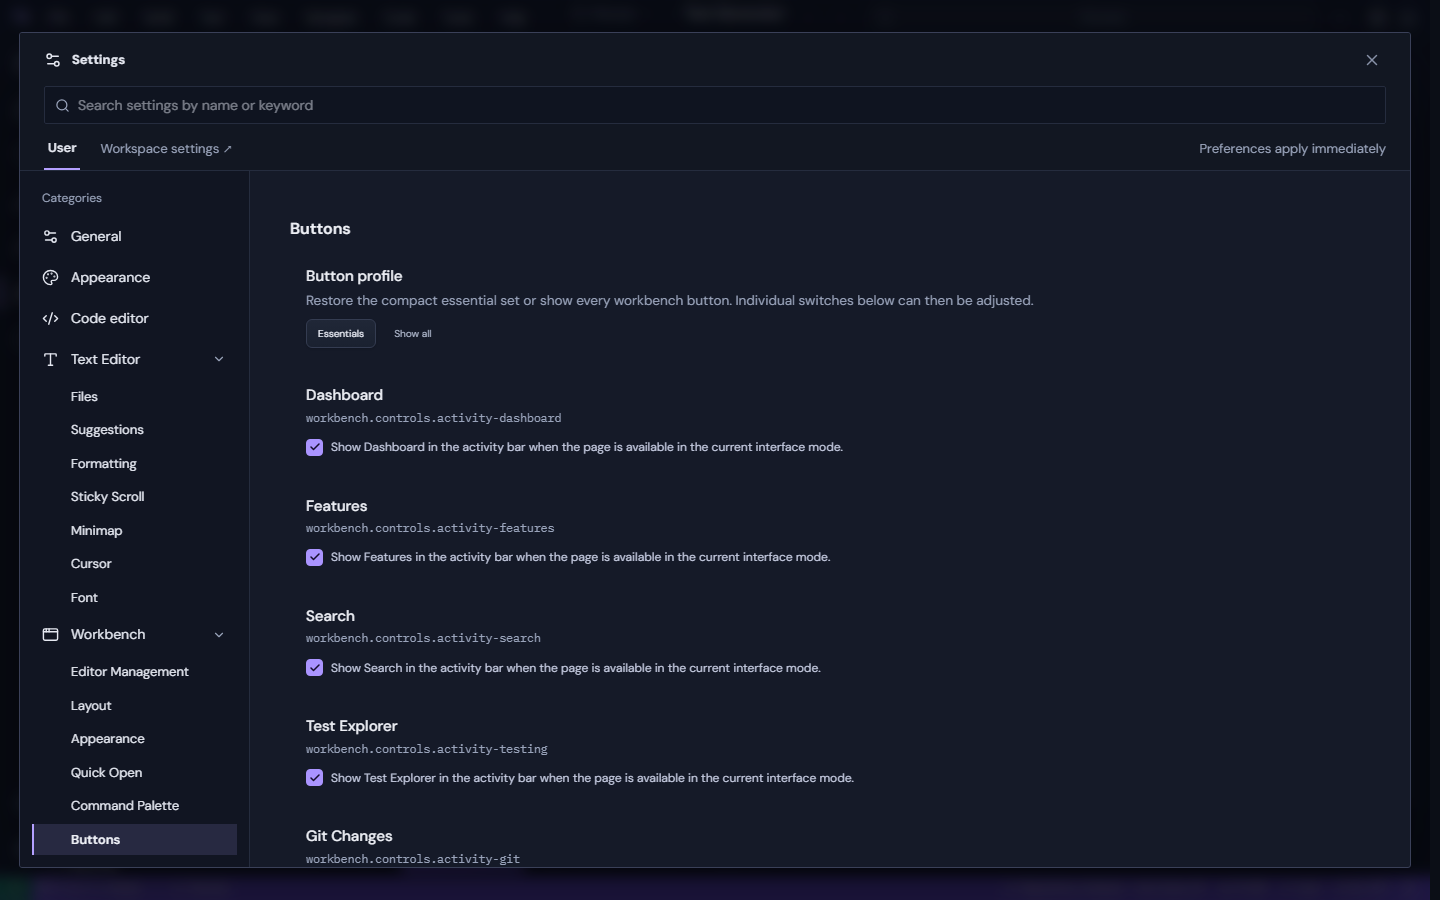
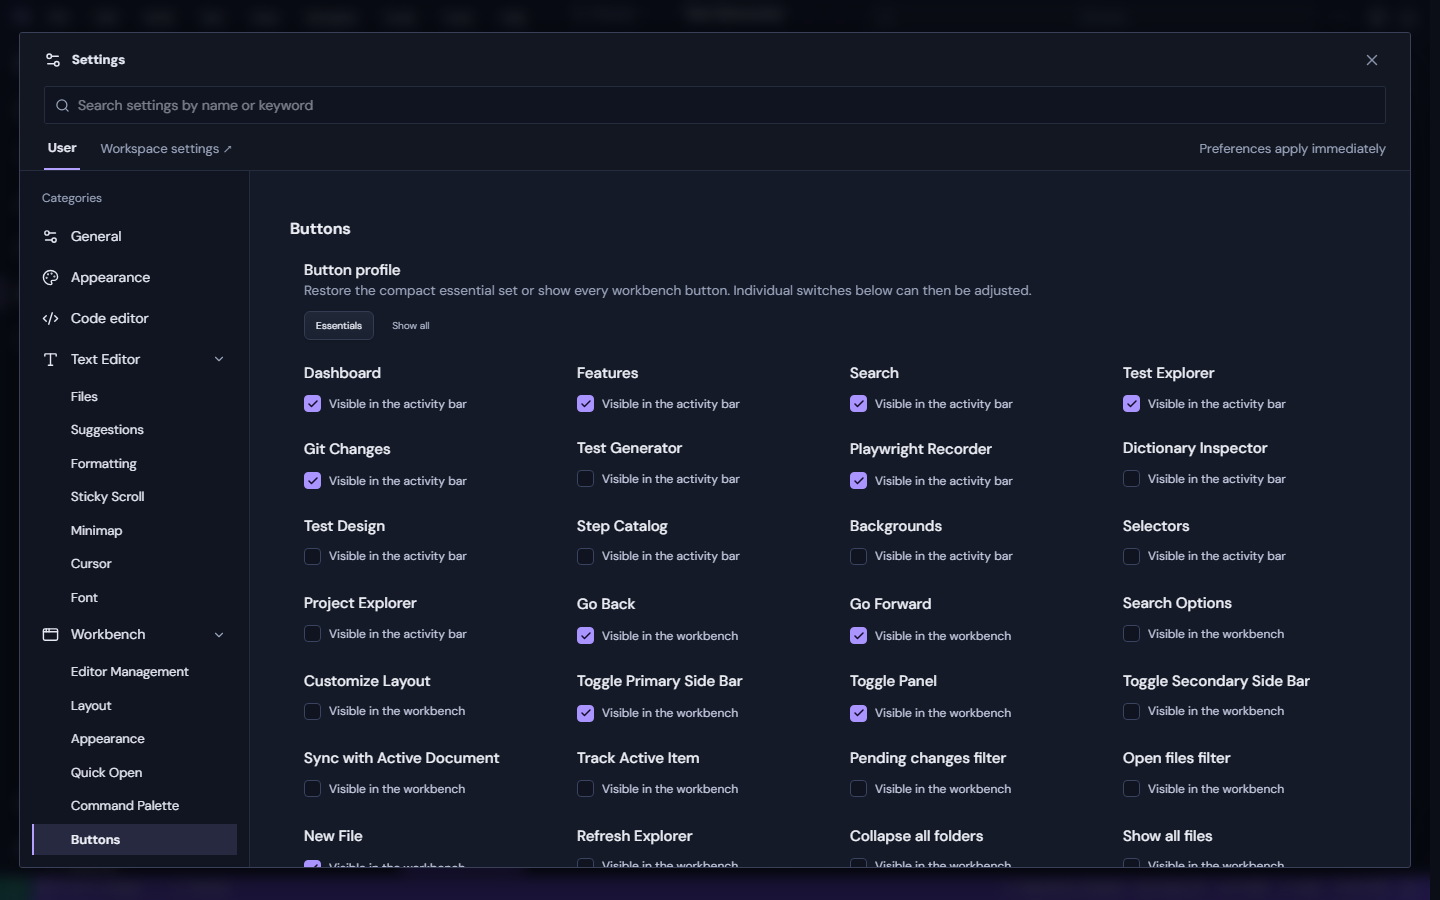
feat(web): make button settings easier to scan

diff --git a/test-authoring-studio/src/vscode/settingsRows.tsx b/test-authoring-studio/src/vscode/settingsRows.tsx
@@ -51,7 +51,7 @@ export function settingRows(): SettingRow[] {
       keywords: `${d.key} ${d.category} ${d.description} ${(d.options ?? []).map((o) => `${o.value} ${o.description ?? ''}`).join(' ')}${modified ? ' @modified modified' : ''}`,
       control: control(d),
       modified,
-      meta: <span className="setting-meta"><code>{d.key}</code>{modified && <button className="icon-button setting-reset" aria-label={`Reset ${d.title}`} title={`Reset to the default (${JSON.stringify(d.default)})`} onClick={() => resetSetting(d.key)}><RotateCcw size={12} aria-hidden="true" /></button>}</span>,
+      meta: modified ? <span className="setting-meta"><button className="icon-button setting-reset" aria-label={`Reset ${d.title}`} title={`Reset to the default (${JSON.stringify(d.default)})`} onClick={() => resetSetting(d.key)}><RotateCcw size={12} aria-hidden="true" /></button></span> : undefined,
     };
   });
 }

diff --git a/test-authoring-studio/src/StudioSettings.tsx b/test-authoring-studio/src/StudioSettings.tsx
@@ -348,7 +348,7 @@ export default function StudioSettings({ onNotice, onWorkspace, shortcuts, onClo
       </nav>
       <div className="settings-content" ref={contentRef}>
         {grouped.map(({ s, items }) => (
-          <section key={s.id} className="settings-section" aria-labelledby={`settings-${s.id.replace(/\W/g, '')}`}>
+          <section key={s.id} className={`settings-section ${s.id === 'Workbench ▸ Buttons' ? 'button-settings-section' : ''}`} aria-labelledby={`settings-${s.id.replace(/\W/g, '')}`}>
             <h2 id={`settings-${s.id.replace(/\W/g, '')}`} className={s.sub ? 'settings-subheading' : ''}>{s.label}</h2>
             {items.map((r) => (
               <div key={r.id} data-setting-id={r.id} className={`settings-row ${r.block && !r.control ? 'stacked' : ''} ${r.sub ? 'sub' : ''} ${r.modified ? 'modified' : ''}`}>

diff --git a/test-authoring-studio/tests/e2e/web-controls.spec.ts b/test-authoring-studio/tests/e2e/web-controls.spec.ts
@@ -17,6 +17,8 @@ test('web workbench starts with essential controls and restores optional buttons
   await expect(settings).toBeVisible();
   await settings.locator('#setting-general-showGuideMe').click();
   await settings.getByRole('navigation', { name: 'Settings categories' }).getByRole('button', { name: 'Buttons' }).click();
+  await expect(settings.getByText('workbench.controls.activity-dashboard')).toHaveCount(0);
+  await expect(settings.getByText('Visible in the activity bar').first()).toBeVisible();
   await settings.locator('#setting-workbench-controls-activity-design').click();
   await settings.locator('#setting-workbench-controls-explorer-refresh').click();
   await page.keyboard.press('Escape');

diff --git a/test-authoring-studio/src/vscode/uiControls.ts b/test-authoring-studio/src/vscode/uiControls.ts
@@ -88,7 +88,7 @@ const controls = [
 
 const getters = Object.fromEntries((isDesktop ? [] : controls).map(([id, title, essential]) => [id, defineSetting<boolean>({
   key: `workbench.controls.${id}`, category: 'Workbench ▸ Buttons', title, type: 'boolean', default: essential,
-  description: id.startsWith('activity-') ? `Show ${title} in the activity bar when the page is available in the current interface mode.` : `Show ${title} in the workbench.`,
+  description: id.startsWith('activity-') ? 'Visible in the activity bar' : 'Visible in the workbench',
 })])) as Record<string, () => boolean>;
 
 export const controlVisible = (id: string) => isDesktop || (getters[id]?.() ?? true);

diff --git a/test-authoring-studio/src/theme.scss b/test-authoring-studio/src/theme.scss
@@ -466,6 +466,15 @@
     gap: 6px;
   }
 }
+.button-settings-section {
+  display: grid;
+  grid-template-columns: repeat(auto-fit, minmax(250px, 1fr));
+  gap: 2px 12px;
+  > h2, > .settings-row:first-of-type { grid-column: 1 / -1; }
+  > .settings-row { padding: 10px 12px; }
+  > .settings-row h3 { margin-bottom: 0; }
+  .settings-row-control { margin-top: 2px; }
+}
 .info-tip {
   display: inline-grid;
   place-items: center;
